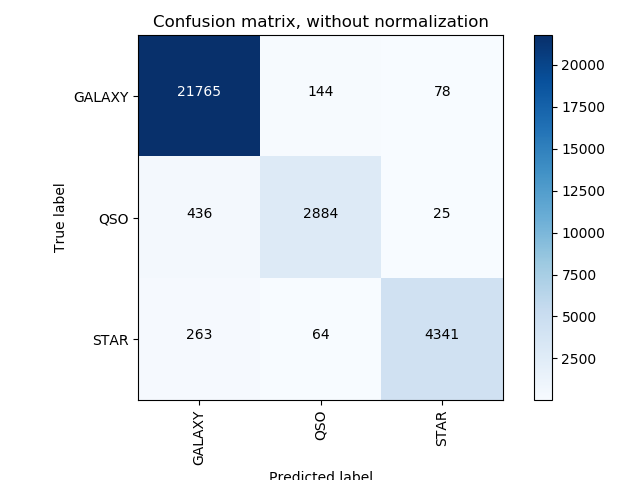
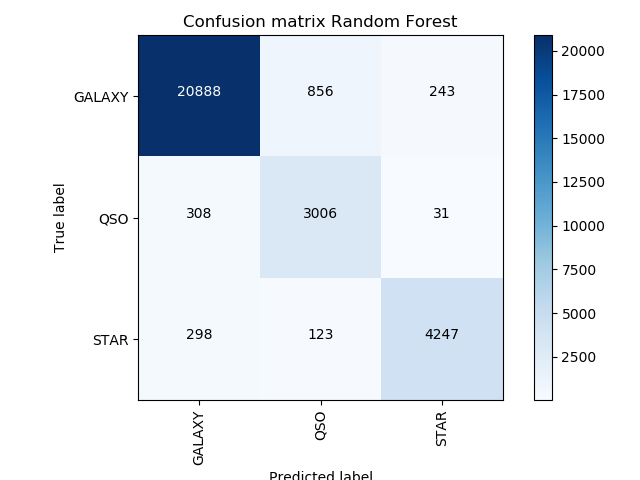
Implemented a Logistic Regression. F score lower by 2%. Need to check the feature importances and compare to the nonlinear model used before

diff --git a/ML_basic.py b/ML_basic.py
@@ -6,7 +6,7 @@ Created on Thu Feb  7 14:19:06 2019
 @author: vladgriguta
 """
 
-import os, sys, glob
+#import os, sys, glob
 import pandas as pd
 import numpy as np
 import matplotlib.pyplot as plt
@@ -17,18 +17,22 @@ import pickle
 import time
 import itertools
 from textwrap import wrap
-import multiprocessing
-import time
+#import multiprocessing
+#import time
 
 #ML libraries
+from sklearn.preprocessing import MinMaxScaler
 from sklearn.model_selection import train_test_split
-from sklearn.feature_selection import SelectFromModel
-from sklearn.metrics import classification_report
+from sklearn.ensemble import RandomForestClassifier
 from sklearn.metrics import confusion_matrix
 from sklearn.metrics import accuracy_score
 from sklearn.metrics import f1_score
-from sklearn.ensemble import RandomForestClassifier
 from sklearn.pipeline import Pipeline
+
+from sklearn.linear_model import LogisticRegression
+#from sklearn.feature_selection import SelectFromModel
+#from sklearn.metrics import classification_report
+
 import scipy.stats as stats
 from sklearn import manifold
 from sklearn.cluster import KMeans
@@ -56,6 +60,11 @@ def prepare_data(filename, trim_columns, train_percent=0.7, tsne=False):
     all_features=data_table.drop(columns=trim_columns+['class'])
     all_classes=data_table['class']
     
+    # Scale all data
+    scaler = MinMaxScaler()
+    scaler.fit(all_features)
+    all_features = scaler.transform(all_features)
+    
     #split data up into test/train
     features_train, features_test, classes_train, classes_test = train_test_split(all_features,
                     all_classes, train_size=train_percent, random_state=0, stratify=all_classes)
@@ -66,9 +75,9 @@ def prepare_data(filename, trim_columns, train_percent=0.7, tsne=False):
     if tsne==False:
         return {'features_train':features_train, 'features_test':features_test,
                 'classes_train':classes_train, 'classes_test':classes_test,
-                'class_names':class_names, 'feature_names':feature_names}
+                'class_names':class_names, 'feature_names':feature_names}, scaler
     if tsne==True:
-        return {'all_features':all_features, 'all_classes':all_classes}
+        return {'all_features':all_features, 'all_classes':all_classes}, scaler
 
 
 def plot_confusion_matrix(cm, classes, normalize=False, title='Confusion matrix',
@@ -102,17 +111,7 @@ def plot_confusion_matrix(cm, classes, normalize=False, title='Confusion matrix'
     plt.gcf().clear()
     
     
-#Function to run randon forest pipeline with feature pruning and analysis
-def RF_pipeline(data, train_percent, n_jobs=-1, n_estimators=500):
-    #rfc=RandomForestClassifier(n_jobs=n_jobs,n_estimators=n_estimators,random_state=2,class_weight='balanced')
-    pipeline = Pipeline([ ('classification', RandomForestClassifier(n_jobs=n_jobs,
-            n_estimators=n_estimators,random_state=0,class_weight='balanced')) ])
-    #do the fit and feature selection
-    pipeline.fit(data['features_train'], data['classes_train'])
-    # check accuracy and other metrics:
-    classes_pred = pipeline.predict(data['features_test'])
-    accuracy_before=(accuracy_score(data['classes_test'], classes_pred))
-
+def plot_feature_importance(data,pipeline,title,location='MLResults/'):
     #make plot of feature importances
     clf=pipeline.steps[0][1] #get classifier used. zero because only 1 step.
     importances = pipeline.steps[0][1].feature_importances_
@@ -124,39 +123,70 @@ def RF_pipeline(data, train_percent, n_jobs=-1, n_estimators=500):
         #print("%d. feature %d (%f) {0}" % (f + 1, indices[f], importances[indices[f]]), feature_names[indices[f]])
         feature_names_importanceorder.append(str(data['feature_names'][indices[f]]))
     plt.figure()
-    plt.title("\n".join(wrap("Feature importances. n_est={0}. Trained on {1}% of data."+
-        " Accuracy before={2:.3f}".format(n_estimators,train_percent*100,accuracy_before))))
+    plt.title(title)
     plt.bar(range(len(indices)), importances[indices],
            color="r", yerr=std[indices], align="center")
     plt.xticks(range(len(indices)), indices)
     plt.xlim([-1, len(indices)])
     plt.xticks(range(len(indices)), feature_names_importanceorder, rotation='vertical')
     plt.tight_layout()
-    plt.savefig('MLResults/Feature_importances.png')
+    plt.savefig(location+title+'.png',format='png')
     plt.gcf().clear()
     
-    return classes_pred
+#Function to run randon forest pipeline with feature pruning and analysis
+def RF_pipeline(data, train_percent, n_jobs=-1, n_estimators=500):
+    #rfc=RandomForestClassifier(n_jobs=n_jobs,n_estimators=n_estimators,random_state=2,class_weight='balanced')
+    pipeline = Pipeline([ ('classification', RandomForestClassifier(n_jobs=n_jobs,
+            n_estimators=n_estimators,random_state=0,class_weight='balanced')) ])
+    #do the fit and feature selection
+    pipeline.fit(data['features_train'], data['classes_train'])
+    # check accuracy and other metrics:
+    classes_pred = pipeline.predict(data['features_test'])
+    accuracy=(accuracy_score(data['classes_test'], classes_pred))
+    # Compute the F1 Score
+    f1 = f1_score(data['classes_test'],classes_pred,labels=data['class_names'],average='weighted')    
 
+    #make plot of feature importances
+    plot_feature_importance(data,pipeline,title='Feature Importance RF')
+    
+    # Compute and plot the confusion matrix
+    cnf_matrix = confusion_matrix(data['classes_test'], classes_pred)
+    plot_confusion_matrix(cnf_matrix, classes=data['class_names'],
+                          title='Confusion matrix Random Forest')
+    
+    return classes_pred,accuracy,f1
+    
 
-
+def linear_classifier(data,train_percent,n_jobs=-1):
+    pipeline = Pipeline([('classification', LogisticRegression(n_jobs=3,solver='newton-cg',
+                tol=1e-5,max_iter=500,class_weight='balanced',multi_class='auto'))])
+    pipeline.fit(data['features_train'],data['classes_train'])
+    # check accuracy and other metrics:
+    classes_pred = pipeline.predict(data['features_test'])
+    accuracy=(accuracy_score(data['classes_test'], classes_pred))
+    f1 = f1_score(data['classes_test'],classes_pred,labels=data['class_names'],average='weighted')
+    
+    #plot_feature_importance(data,pipeline,title='Feature Importance LogisticReg')
+    
+    # Compute and plot the confusion matrix
+    cnf_matrix = confusion_matrix(data['classes_test'], classes_pred)
+    plot_confusion_matrix(cnf_matrix, classes=data['class_names'],
+                          title='Confusion matrix Random Forest')
+    
+    return classes_pred,accuracy,f1
+    
 if __name__ == "__main__":
     
     input_table = 'test_query_table_100k'
     trim_columns=['#ra', 'dec', 'z', 'peak','integr','rms','subclass']
 
-    data = prepare_data(input_table,trim_columns,train_percent=0.7)
+    data, scaler = prepare_data(input_table,trim_columns,train_percent=0.7)
     
     # Call the Random Forest classifier to do the job
-    classes_pred = RF_pipeline(data,train_percent=0.7,n_jobs=3,n_estimators=500)
+    #classes_pred,accuracy_RF,f1_RF = RF_pipeline(data,train_percent=0.7,n_jobs=-1,n_estimators=500)
     
-    # Compute and plot the confusion matrix
-    cnf_matrix = confusion_matrix(data['classes_test'], classes_pred)
-    plot_confusion_matrix(cnf_matrix, classes=data['class_names'],
-                          title='Confusion matrix, without normalization')
+    classes_pred,accuracy_LR,f1_LR = linear_classifier(data,train_percent=0.7,n_jobs=-1)
     
-    # Compute the F1 Score
-    labels = data['class_names']
-    f1 = f1_score(data['classes_test'],classes_pred,labels=labels,average='weighted')
     
     
     
